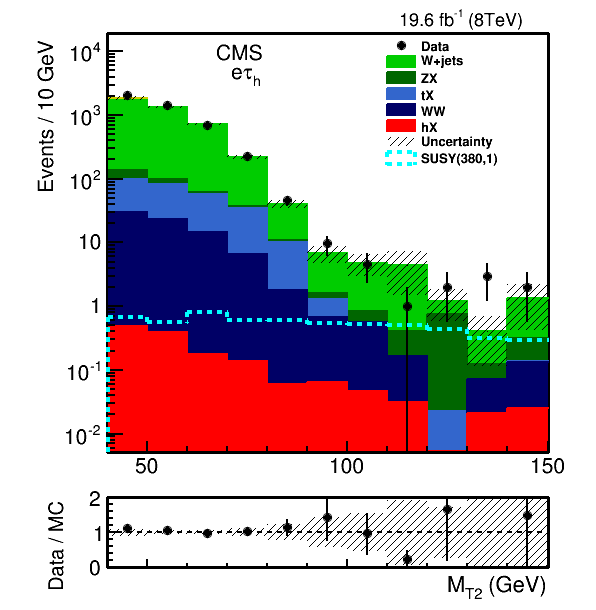
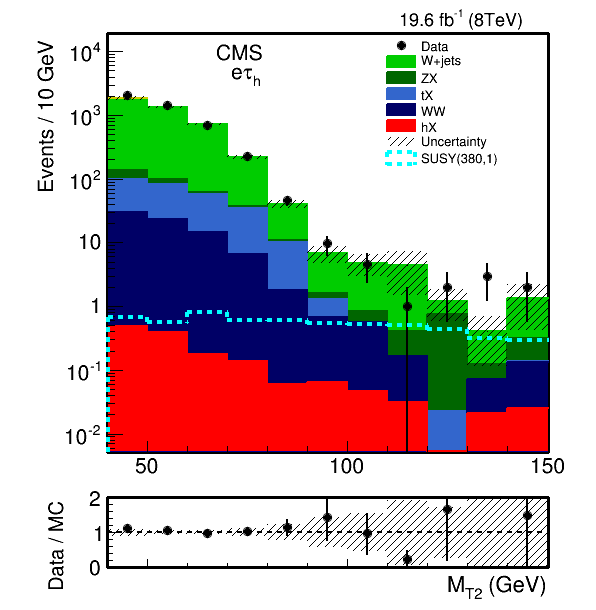
small fix for legend font of eleTau fig.

diff --git a/papers/SUS-14-022/trunk/SelectionEleTau/MT2_eletau.C b/papers/SUS-14-022/trunk/SelectionEleTau/MT2_eletau.C
@@ -438,6 +438,7 @@
    h2_copy19__7->SetBinError(12,1);
    h2_copy19__7->SetMaximum(9150.271);
    h2_copy19__7->SetEntries(5460);
+   h2_copy19__7->SetLineColor(kBlack);
    h2_copy19__7->SetFillColor(1);
    h2_copy19__7->SetLineWidth(2);
    h2_copy19__7->SetMarkerStyle(20);
